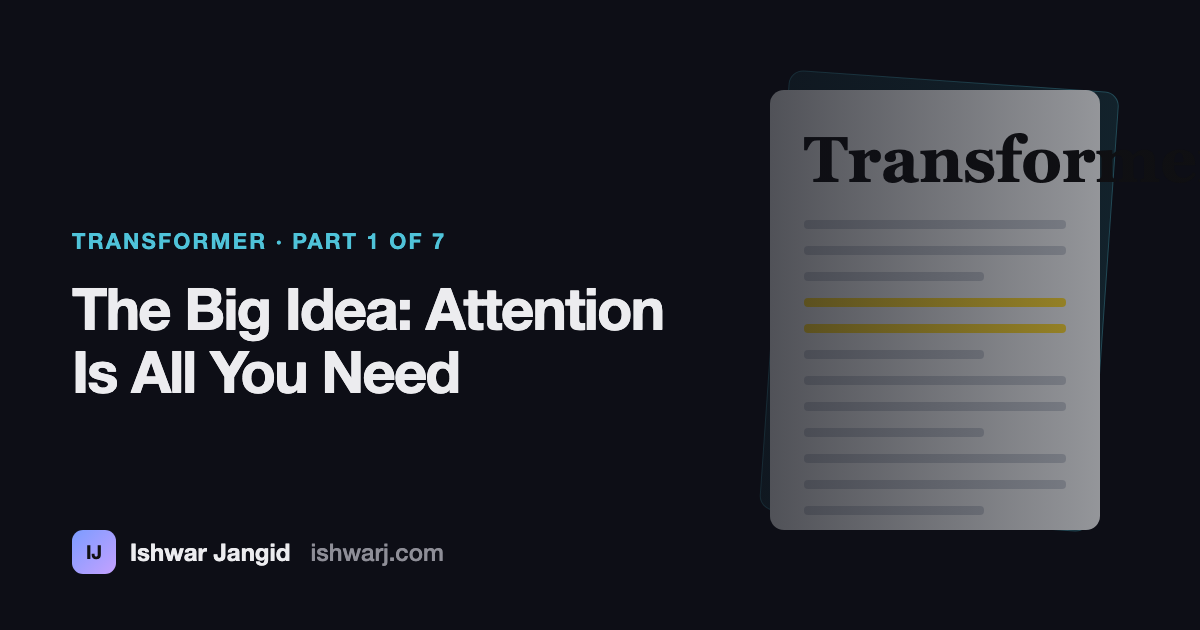
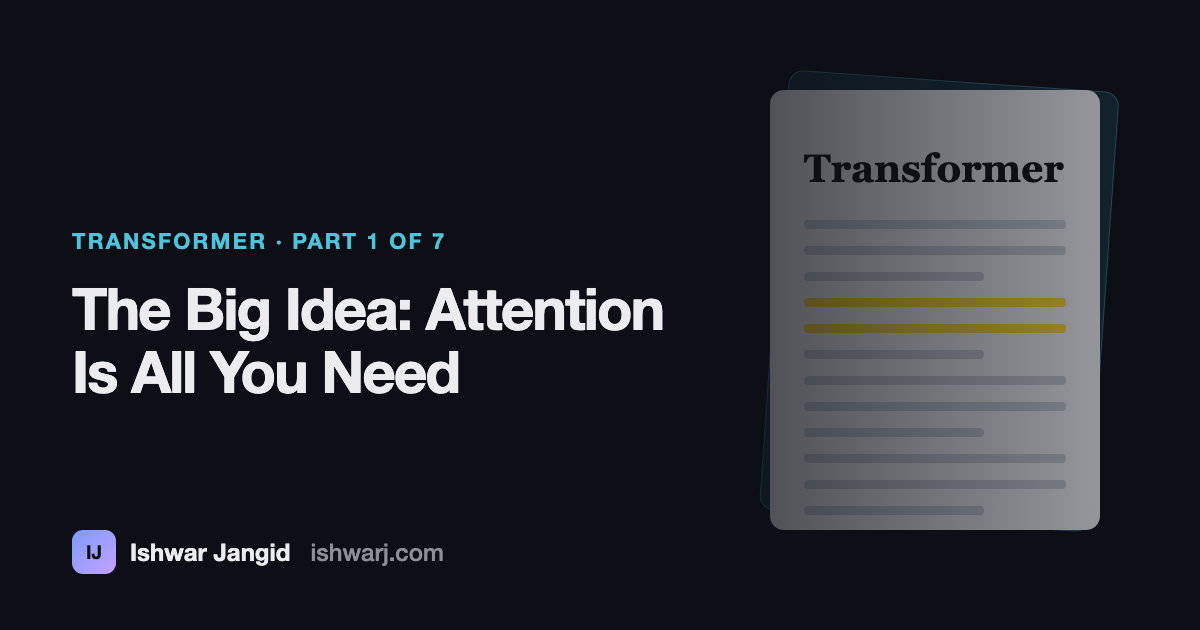
Paper cards: size the paper's short name to fit, so long names like Transformer stay inside the sheet

Changed region(s): [[0.6475, 0.2111, 0.925, 0.3016]]

diff --git a/src/styles/paper.css b/src/styles/paper.css
@@ -38,7 +38,7 @@
     linear-gradient(160deg, var(--paper-soft), transparent 70%), var(--surface);
   border-right: 1px solid var(--border-soft);
 }
-.ps-short { font-family: var(--serif); font-size: 46px; font-weight: 700; color: var(--text-strong); letter-spacing: -0.01em; line-height: 1; }
+.ps-short { font-family: var(--serif); font-size: var(--ps-size, 46px); font-weight: 700; color: var(--text-strong); letter-spacing: -0.01em; line-height: 1; }
 .ps-lines { display: grid; gap: 7px; }
 .ps-lines i { display: block; height: 5px; border-radius: 3px; background: var(--border); }
 .ps-lines i:nth-child(2n) { width: 82%; }
@@ -52,7 +52,7 @@
 @media (max-width: 720px) {
   .paper-card { grid-template-columns: minmax(0, 1fr); }
   .paper-card-sheet { flex-direction: row; align-items: center; border-right: 0; border-bottom: 1px solid var(--border-soft); padding: 18px 20px; }
-  .ps-short { font-size: 34px; }
+  .ps-short { font-size: min(34px, var(--ps-size, 34px)); }
   .ps-lines { display: none; }
   .paper-card-body { padding: 20px; }
   .paper-card h3 { font-size: 21px; }

diff --git a/src/components/PaperBits.tsx b/src/components/PaperBits.tsx
@@ -78,7 +78,7 @@ export function PaperCard({ paper }: { paper: Paper }) {
   return (
     <article className="paper-card" style={accentStyle(paper)}>
       <div className="paper-card-sheet" aria-hidden="true">
-        <span className="ps-short">{paper.short}</span>
+        <span className="ps-short" style={{ ['--ps-size' as string]: `${Math.min(46, Math.floor(172 / (0.58 * paper.short.length)))}px` }}>{paper.short}</span>
         <span className="ps-lines"><i /><i /><i /><i /><i /><i /></span>
         <span className="ps-year">{paper.year}</span>
       </div>
